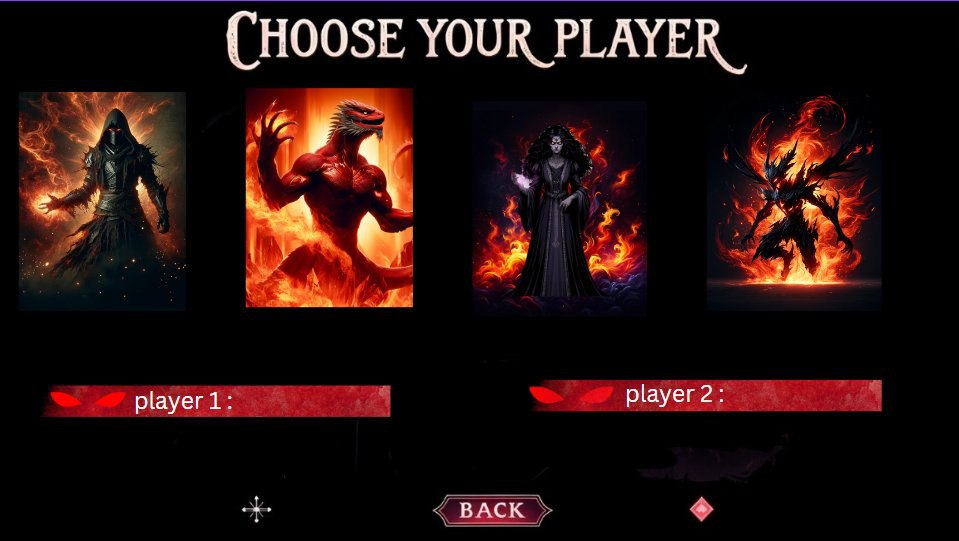
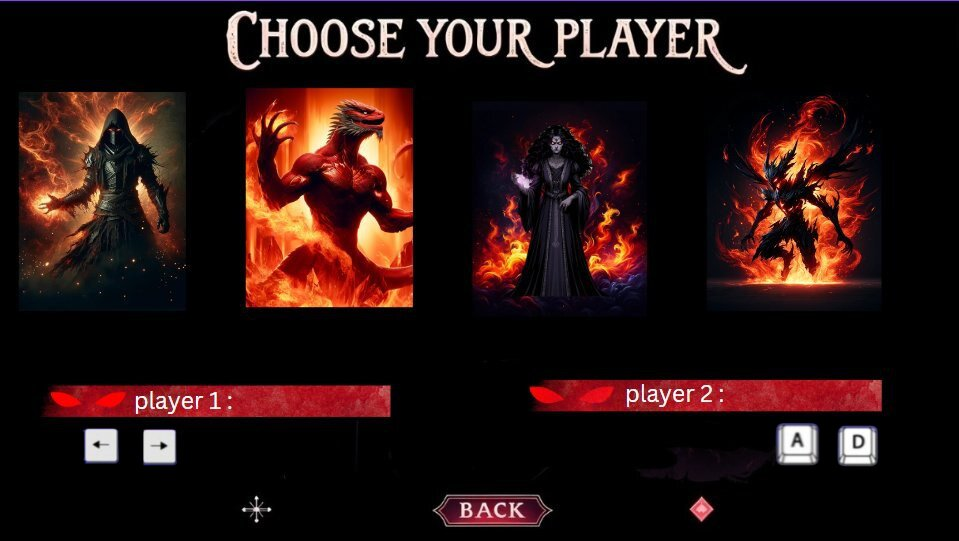
add the new images

Changed region(s): [[0.7862, 0.7689, 0.9374, 0.8872], [0.0605, 0.7689, 0.2117, 0.8872]]

diff --git a/src/GameBase/main.cpp b/src/GameBase/main.cpp
@@ -5,15 +5,15 @@
 
 int main() {
     //logic mood
-    sf::RenderWindow m_window;
+    /*sf::RenderWindow m_window;
     sf::Texture* texture = Singleton::instance().getScreen(GAME_m);
     sf::Vector2u imageSize = texture->getSize();
     m_window.create(sf::VideoMode(imageSize.x, imageSize.y + 50 ), "Game Window");
     GameLogic g;
-    g.handleEvents(m_window);
+    g.handleEvents(m_window);*/
 
     //game moode
-    /*Screens s;
-    s.run();*/
+    Screens s;
+    s.run();
     return 0;
 }
